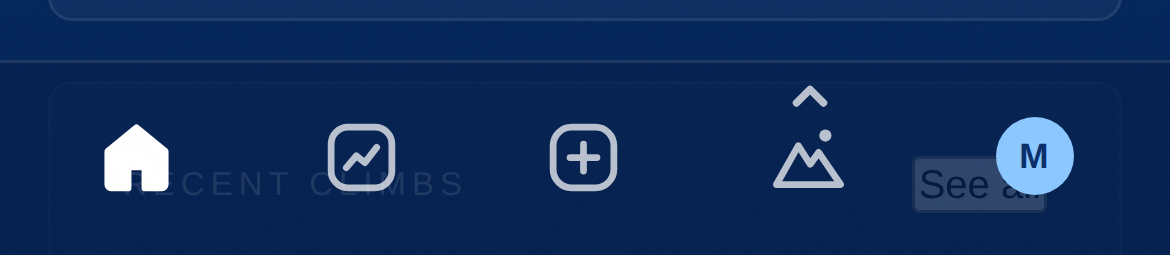
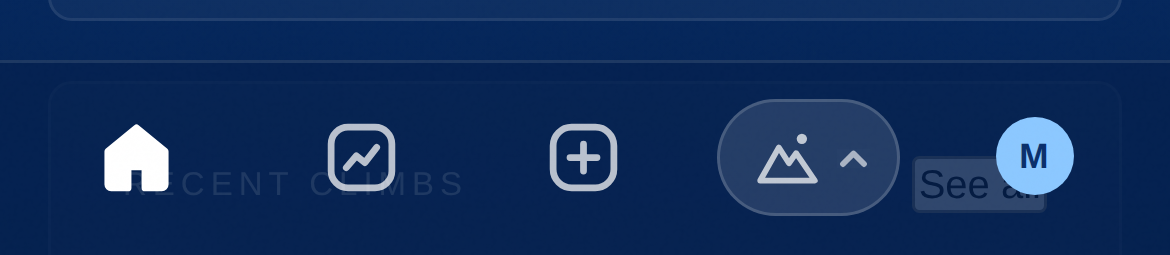
Show the tab bar sport button as a pill with a caret
The floating arrow above the icon looked out of place. The sport button
now matches the sport pill in the top bar: the icon and a small up caret
inside a soft pill. No animation.

Claude-Session: https://claude.ai/code/session_018vy5HvYWrdFpGSJEHtpAsx

Changed region(s): [[0.6154, 0.3294, 0.7692, 0.851]]

diff --git a/src/Nav.css b/src/Nav.css
@@ -36,10 +36,14 @@
 .tabbar button.on { color: #fff; }
 .tabbar button:focus-visible { outline: 2px solid #fff; outline-offset: -4px; border-radius: 14px; }
 .tabbar svg { width: 27px; height: 27px; }
-/* the sport button opens a sheet from below, so a small up caret hints that it can be tapped */
-.tabbar-sport { position: relative; display: grid; place-items: center; }
-.tabbar .tabbar-caret { position: absolute; top: -12px; left: 50%; width: 14px; height: 9px; margin-left: -7px; animation: caret-nudge 1.4s ease-in-out 0.8s 2; }
-@keyframes caret-nudge { 0%, 100% { transform: none; } 50% { transform: translateY(-3px); } }
+/* the sport button opens a sheet from below, so it gets the same pill and caret as the sport button in the top bar */
+.tabbar-sport {
+  display: inline-flex; align-items: center; gap: 5px; padding: 7px 9px 7px 11px; border-radius: 99px;
+  background: rgba(255, 255, 255, 0.12); border: 1px solid rgba(255, 255, 255, 0.16);
+}
+.tabbar button.on .tabbar-sport { background: rgba(255, 255, 255, 0.2); }
+.tabbar .tabbar-sport svg { width: 23px; height: 23px; }
+.tabbar .tabbar-sport .tabbar-caret { width: 11px; height: 7px; opacity: 0.85; }
 .tabbar-av { display: grid; place-items: center; width: 30px; height: 30px; border-radius: 50%; box-shadow: 0 0 0 1.5px transparent; }
 .tabbar-av.on { box-shadow: 0 0 0 2px #fff; }
 
@@ -100,5 +104,4 @@
 @media (prefers-reduced-motion: reduce) {
   .sheet, .sheet-wrap { animation: none; }
   .tabbar button { transition: none; }
-  .tabbar .tabbar-caret { animation: none; }
 }

diff --git a/src/Dashboard.jsx b/src/Dashboard.jsx
@@ -169,8 +169,8 @@ export default function Dashboard({ user }) {
         ))}
         <button className={picking ? "on" : ""} aria-label="Change sport" aria-haspopup="dialog" onClick={() => setPicking(true)}>
           <span className="tabbar-sport">
-            <svg className="tabbar-caret" viewBox="0 0 12 8" fill="none" stroke="currentColor" strokeWidth="2.2" strokeLinecap="round" strokeLinejoin="round" aria-hidden="true"><path d="M2 6.5l4-4 4 4" /></svg>
             {I[sport](picking)}
+            <svg className="tabbar-caret" viewBox="0 0 12 8" fill="none" stroke="currentColor" strokeWidth="2.2" strokeLinecap="round" strokeLinejoin="round" aria-hidden="true"><path d="M2 6.5l4-4 4 4" /></svg>
           </span>
         </button>
         <button className={youTab ? "on" : ""} aria-label="You" aria-current={youTab ? "page" : undefined} onClick={() => go("you")}>
